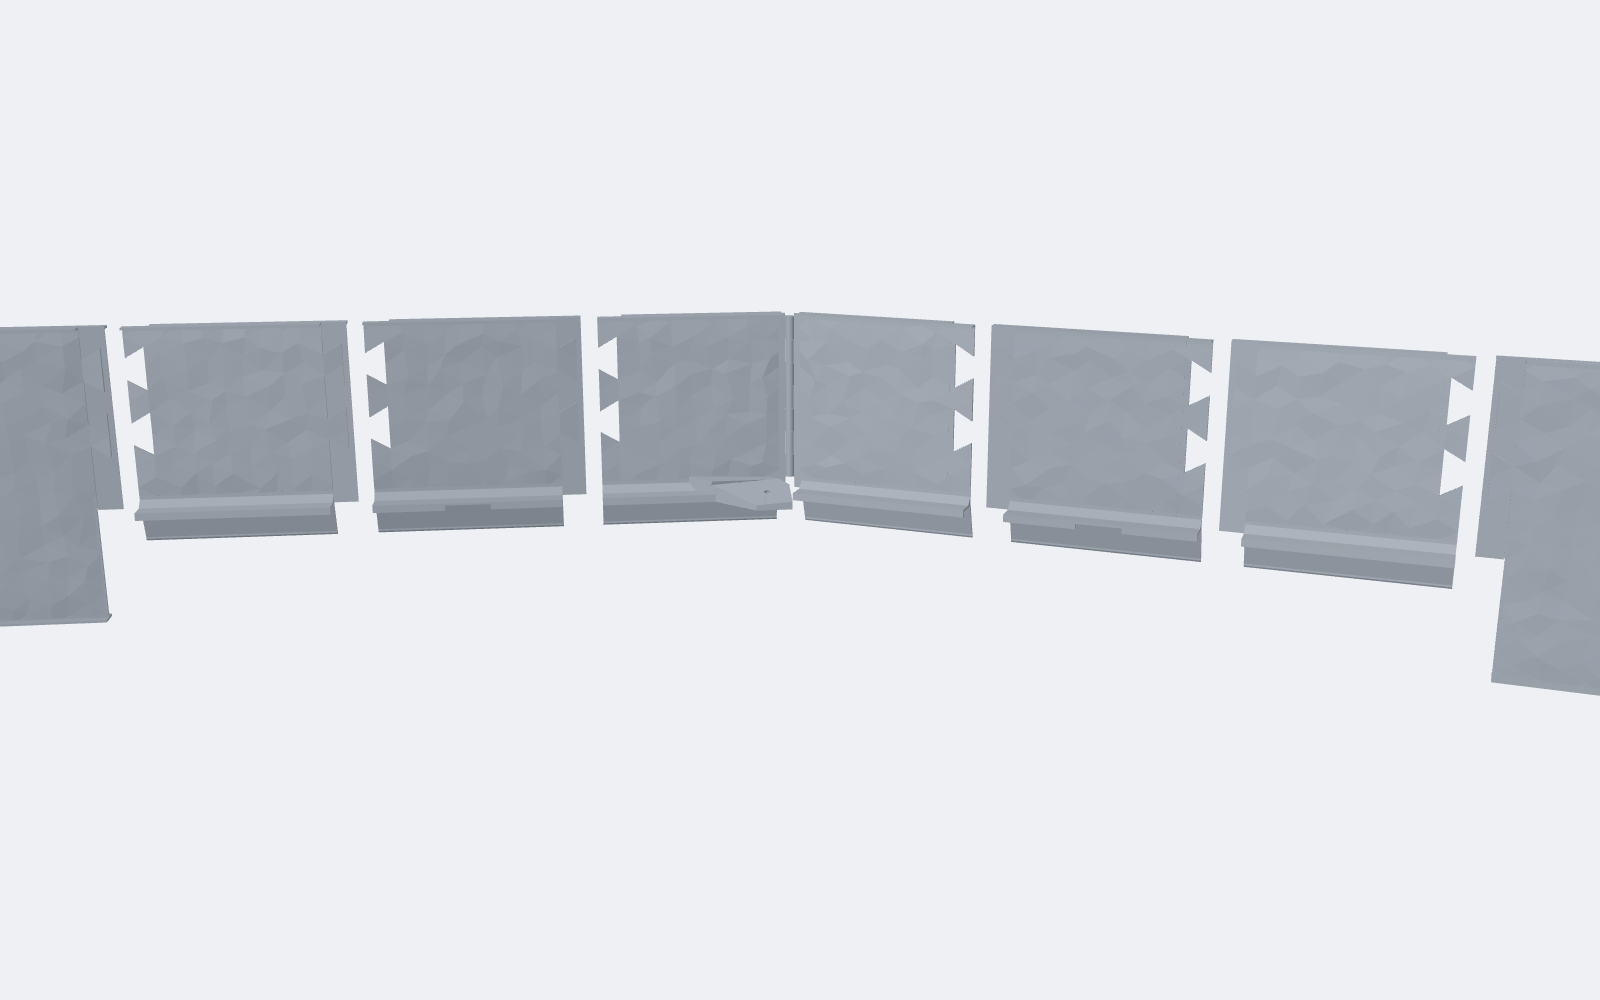
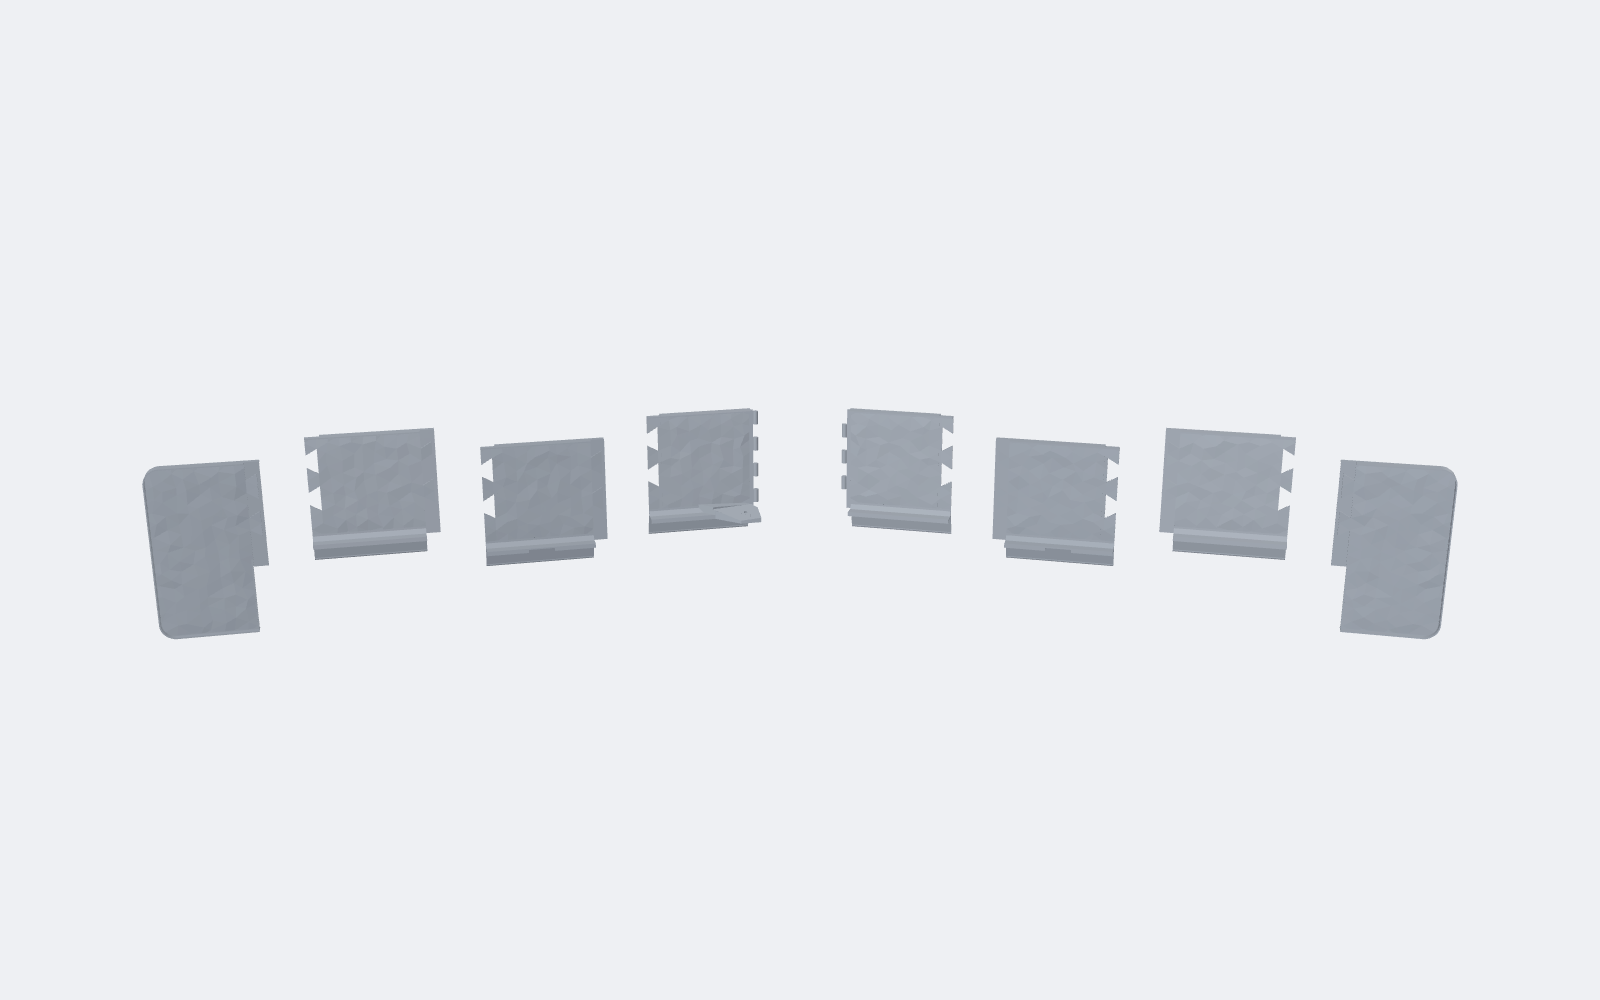
Viewer: Exploded tab with animated, spaced-out pieces

Changed region(s): [[0.0, 0.31, 1.0, 0.713]]

diff --git a/index.html b/index.html
@@ -23,7 +23,7 @@
   <button data-view="spine">Spine</button>
   <button data-view="seam">Seam close-up</button>
   <button data-view="seamBack">Seam from behind</button>
-  <button id="explode">Explode pieces</button>
+  <button data-view="exploded">Exploded</button>
   <button id="monitors" class="on">Monitors</button>
 </div>
 <div id="note">Drag to orbit, scroll to zoom, right-drag to pan. Units are mm.</div>
@@ -61,14 +61,17 @@ const views = {
   camUnder: [T(-150, -330, -150), T(-30, -20, 0)],
   sideBack: [T(-1500, 900, 150), T(-560, 100, -120)],
 };
+views.exploded = [T(0, -3300, 1100), T(0, 60, 40)];
+let monitorsOn = true;
 function go(v) {
   const [eye, tgt] = views[v];
   camera.position.copy(eye); controls.target.copy(tgt); controls.update();
   document.querySelectorAll('[data-view]').forEach(b => b.classList.toggle('on', b.dataset.view === v));
+  setExploded(v === 'exploded');
 }
 document.querySelectorAll('[data-view]').forEach(b => b.onclick = () => go(b.dataset.view));
 
-const toe = 15 * Math.PI / 180;
+const toe = 14 * Math.PI / 180;   // measured 152 deg between the monitors
 const dirL = new THREE.Vector3(Math.cos(toe), 0, -Math.sin(toe));
 const dirR = new THREE.Vector3(Math.cos(toe), 0, Math.sin(toe));
 const order = ['extension', 'outer', 'middle-camera', 'inner'];
@@ -88,32 +91,45 @@ new GLTFLoader().load('assembly.glb?v=' + Date.now(), gltf => {
     const m = o.name.match(/^shield_(left|right)_(.+)$/);
     if (m) {
       const k = order.indexOf(m[2]);
-      const off = (m[1] === 'left' ? dirL.clone().multiplyScalar(-(3 - k) * 45)
-                                    : dirR.clone().multiplyScalar((3 - k) * 45));
+      // each piece slides away from the spine along its own panel: GAP between pieces,
+      // SPLIT between the two monitors' halves; alternate pieces lift so the joints read
+      const GAP = 110, SPLIT = 90, d = (3 - k) * GAP + SPLIT;
+      const off = (m[1] === 'left' ? dirL.clone().multiplyScalar(-d) : dirR.clone().multiplyScalar(d));
+      off.y += (k % 2) * 40;
       shield.push({ o, base: o.position.clone(), off });
     } else monitors.push(o);
   });
   scene.add(gltf.scene);
   const q = new URLSearchParams(location.search);
   go(q.get('view') || 'front');
-  if (q.get('explode')) document.getElementById('explode').click();
   if (q.get('nomon')) document.getElementById('monitors').click();
   if (q.get('shot')) document.querySelectorAll('#bar,#note').forEach(e => e.style.display = 'none');
 });
 
-document.getElementById('explode').onclick = e => {
-  exploded = !exploded; e.target.classList.toggle('on', exploded);
-  shield.forEach(s => s.o.position.copy(s.base).add(exploded ? s.off : new THREE.Vector3()));
-};
+let anim = null;
+function setExploded(on) {
+  if (on === exploded) return;
+  exploded = on;
+  // monitors and webcam would hide the gaps, so the exploded tab hides them
+  monitors.forEach(o => o.visible = on ? false : monitorsOn);
+  const from = shield.map(s => s.o.position.clone());
+  const to = shield.map(s => s.base.clone().add(on ? s.off : new THREE.Vector3()));
+  const t0 = performance.now();
+  anim = () => {
+    const k = Math.min(1, (performance.now() - t0) / 600), e = k * k * (3 - 2 * k);
+    shield.forEach((s, i) => s.o.position.lerpVectors(from[i], to[i], e));
+    if (k === 1) anim = null;
+  };
+}
 document.getElementById('monitors').onclick = e => {
-  const on = e.target.classList.toggle('on');
-  monitors.forEach(o => o.visible = on);
+  monitorsOn = e.target.classList.toggle('on');
+  if (!exploded) monitors.forEach(o => o.visible = monitorsOn);
 };
 addEventListener('resize', () => {
   camera.aspect = innerWidth / innerHeight; camera.updateProjectionMatrix();
   renderer.setSize(innerWidth, innerHeight);
 });
-renderer.setAnimationLoop(() => { controls.update(); renderer.render(scene, camera); });
+renderer.setAnimationLoop(() => { if (anim) anim(); controls.update(); renderer.render(scene, camera); });
 </script>
 </body>
 </html>
